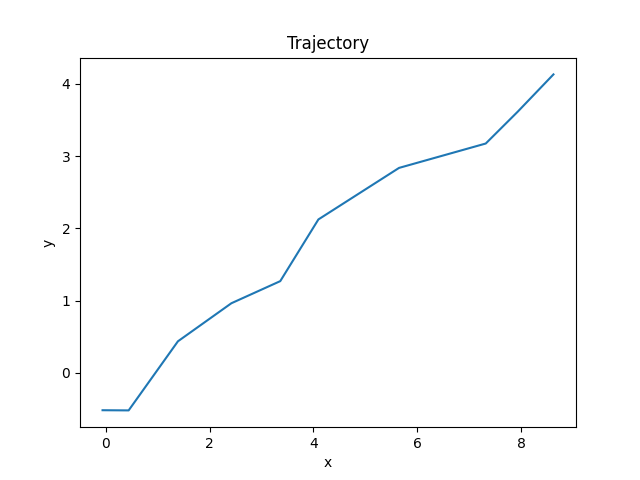
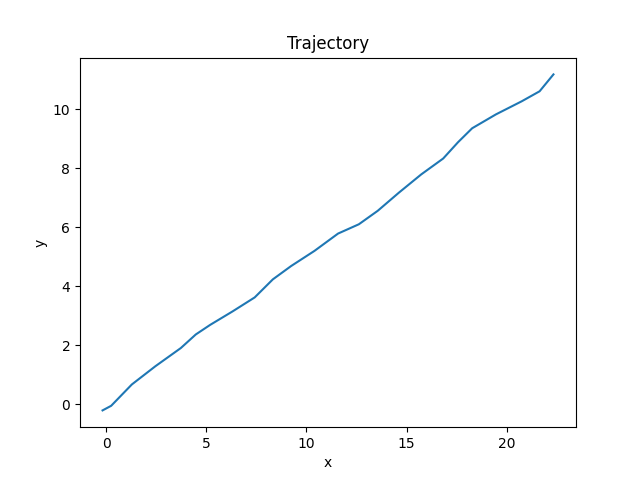
add argument to main

diff --git a/src/main.cpp b/src/main.cpp
@@ -1,13 +1,45 @@
+#include <iostream>
+
+#include "config.h"
 #include "pipeline_manager.h"
 
-int main() {
-    PipelineManager pipeline;
+int main(int argc, char* argv[]) {
+    Config config;
 
-    pipeline.start();
+    // TODO ここの処理は別メソッドで切り出したい
+    // 実行時に入力した設定値を反映する
+    for (int i{1}; i < argc; i++) {
+        std::string arg = argv[i];
+        if (arg == "--duration" && (i + 1) < argc) {
+            try {
+                config.duration_sec = std::stoi(argv[++i]);
+            } catch(const std::exception& e) {
+                std::cerr << "Invalid duration value : " << e.what() << std::endl;
+            }
+        } else if (arg == "--interval" && (i + 1) < argc) {
+            try {
+                config.sensor_interval_ms = std::stoi(argv[++i]);
+            } catch(const std::exception& e) {
+                std::cerr << "Invalid interval value : " << e.what() << std::endl;
+            }
+        } else if (arg == "--noise" && (i + 1) < argc) {
+            try {
+                config.noise_stddev = std::stod(argv[++i]);
+            } catch(const std::exception& e) {
+                std::cerr << "Invalid noise value : " << e.what() << std::endl;
+            }
+        } else {
+            std::cerr << "Unknown or invalid argument: " << arg << std::endl;
+        }
+    }
+    std::cout << "duration=" << config.duration_sec << std::endl;
+    std::cout << "interval=" << config.sensor_interval_ms << std::endl;
+    std::cout << "noise=" << config.noise_stddev << std::endl;
 
-    std::this_thread::sleep_for(std::chrono::seconds(5));
+    PipelineManager manager(config);
 
-    pipeline.stop();
+    manager.start();
+    std::this_thread::sleep_for(std::chrono::seconds(config.duration_sec));
+    manager.stop();
 
-    return 0;
 }

diff --git a/components/sensor.cpp b/components/sensor.cpp
@@ -2,7 +2,8 @@
 #include <chrono>
 #include <random>
 
-Sensor::Sensor(SafeQueue<Position>& q) : queue(q) {}
+Sensor::Sensor(SafeQueue<Position>& q, int interval_ms, double noise)
+    : queue(q), interval(interval_ms), noise_stddev(noise) {}
 
 void Sensor::start() {
     sensorRunning = true;
@@ -22,7 +23,9 @@ void Sensor::run() {
 
     std::random_device rd;
     std::mt19937 gen(rd());
-    std::normal_distribution<> noise(0.0, 0.5); // 平均0、分散0.5
+
+    // ノイズを作成、分散は設定値から
+    std::normal_distribution<> noise(0.0, noise_stddev);
 
     while (sensorRunning) {
         Position p;
@@ -38,6 +41,6 @@ void Sensor::run() {
         x += 1.0;
         y += 0.5;
 
-        std::this_thread::sleep_for(std::chrono::milliseconds(500));
+        std::this_thread::sleep_for(std::chrono::milliseconds(interval));
     }
 }

diff --git a/pipeline/pipeline_manager.cpp b/pipeline/pipeline_manager.cpp
@@ -1,7 +1,11 @@
 #include "pipeline_manager.h"
 
-PipelineManager::PipelineManager()
-    : sensor(q1), processor(q1, q2), logger(q2) {}
+PipelineManager::PipelineManager(const Config& config)
+    : sensor(q1, config.sensor_interval_ms, config.noise_stddev),
+      processor(q1, q2),
+      logger(q2),
+      config(config)
+{}
 
 void PipelineManager::start() {
     sensor.start();

diff --git a/include/pipeline_manager.h b/include/pipeline_manager.h
@@ -1,16 +1,19 @@
 #pragma once
+#include "config.h"
 #include "sensor.h"
 #include "processor.h"
 #include "logger.h"
 
 class PipelineManager {
 public:
-    PipelineManager();
+    PipelineManager(const Config& config);
 
     void start();
     void stop();
 
 private:
+    Config config;
+
     SafeQueue<Position> q1;
     SafeQueue<Position> q2;
 

diff --git a/include/sensor.h b/include/sensor.h
@@ -6,13 +6,16 @@
 
 class Sensor {
 public:
-    Sensor(SafeQueue<Position>& q);
+    Sensor(SafeQueue<Position>& q, int interval_ms, double noise_stddev);
 
     void start();
     void stop();
 
 private:
     void run();
+
+    int interval;
+    double noise_stddev;
 
     std::thread worker;
     std::atomic<bool> sensorRunning{false};

diff --git a/include/config.h b/include/config.h
@@ -1,0 +1,8 @@
+#pragma once
+
+struct Config {
+    // デフォルトの設定値
+    int duration_sec = 5;
+    int sensor_interval_ms = 500;
+    double noise_stddev = 0.5;
+};
